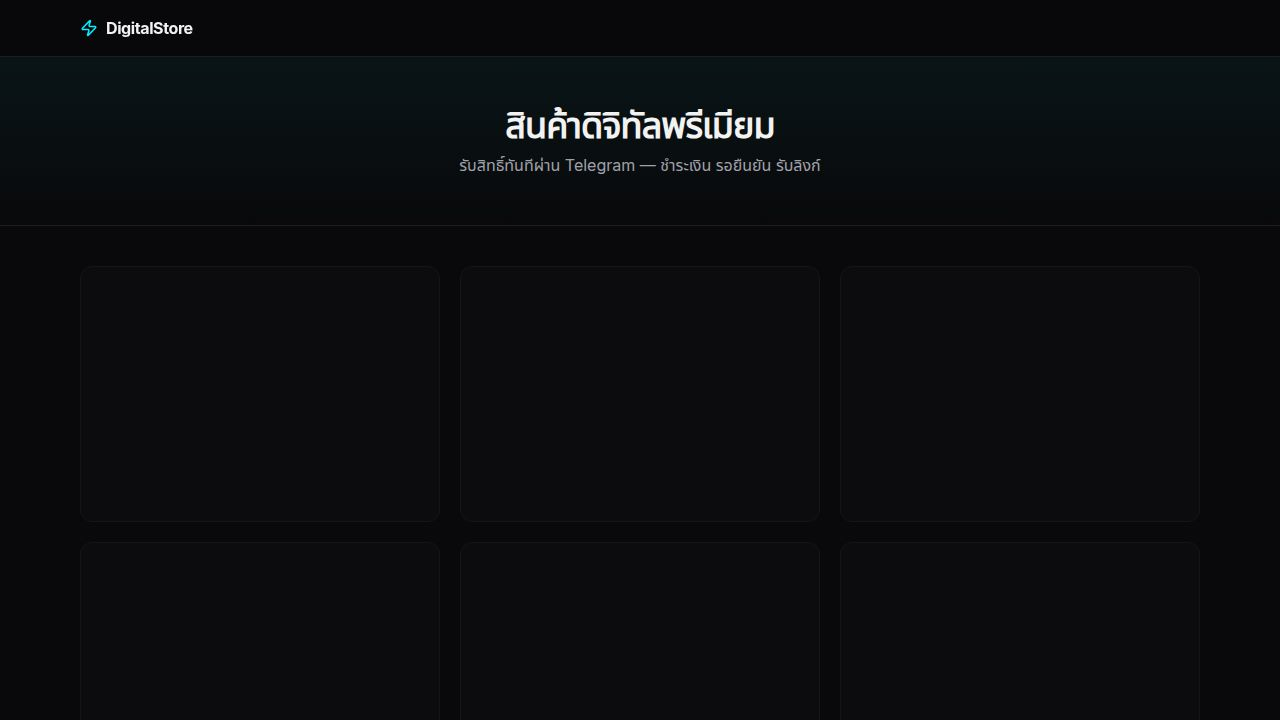
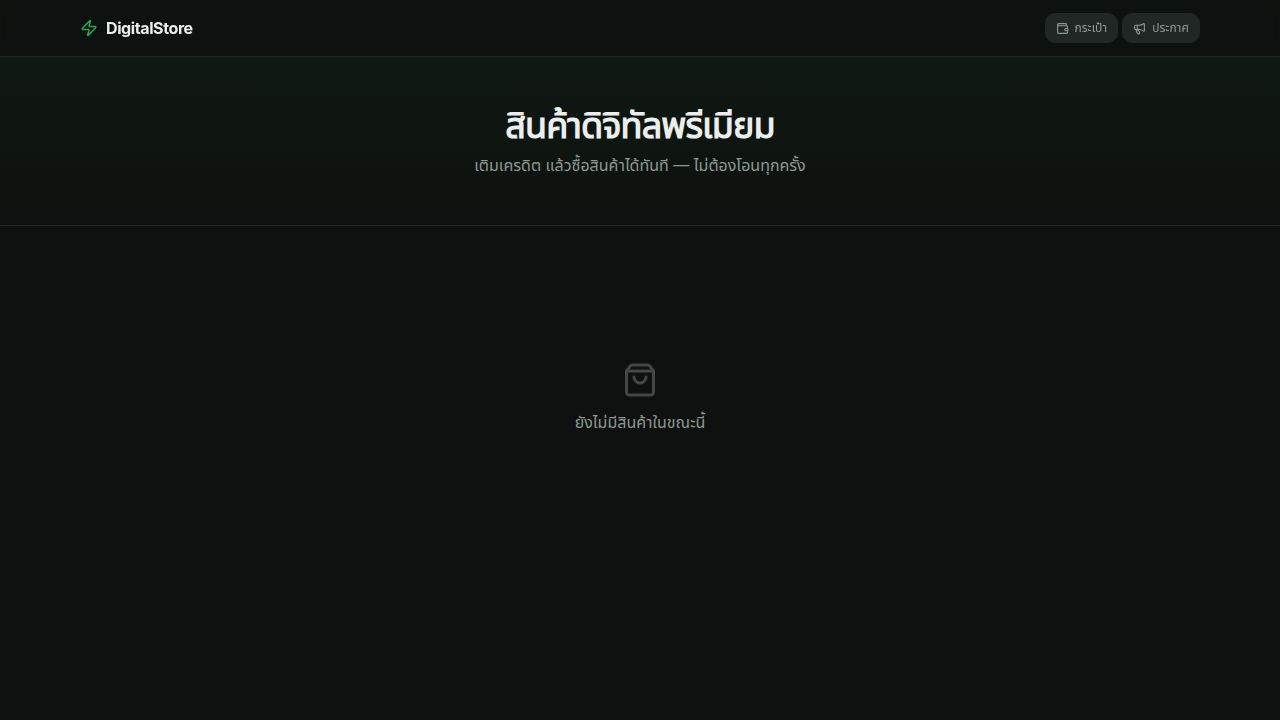
Update website to show purchased items immediately
Fix cache invalidation and proxy configuration issues in the store application.

Replit-Commit-Author: Agent
Replit-Commit-Session-Id: 8c5196ee-96c6-490d-97a3-de2179f8781b
Replit-Commit-Checkpoint-Type: full_checkpoint
Replit-Commit-Event-Id: 2ac96a9a-8911-4f54-a1bf-1070b97376ca
Replit-Commit-Screenshot-Url: https://storage.googleapis.com/screenshot-production-us-central1/b21781ef-a21f-4cb3-89ae-95475a2aff02/8c5196ee-96c6-490d-97a3-de2179f8781b/o4ns5v7
Replit-Helium-Checkpoint-Created: true

diff --git a/artifacts/store/src/pages/StoreFront.tsx b/artifacts/store/src/pages/StoreFront.tsx
@@ -1,5 +1,5 @@
 import { useState, useEffect, useRef } from "react";
-import { useQuery, useMutation } from "@tanstack/react-query";
+import { useQuery, useMutation, useQueryClient } from "@tanstack/react-query";
 import { motion } from "framer-motion";
 import { ShoppingBag, Upload, Link, Clock, ChevronRight, ChevronLeft, Zap, Megaphone, Search, CheckCircle, XCircle, Loader, Building2, CreditCard, Wallet, HelpCircle, X, Lock, Eye, EyeOff } from "lucide-react";
 import { Button } from "@/components/ui/button";
@@ -264,6 +264,7 @@ function BuyModal({
   onClose: () => void;
 }) {
   const [, setLocation] = useLocation();
+  const qc = useQueryClient();
 
   // Read token from sessionStorage (set by WalletPage after PIN login)
   const [token, setToken] = useState(() => sessionStorage.getItem("wallet_token") || "");
@@ -304,7 +305,11 @@ function BuyModal({
       if (!res.ok) throw new Error(data.detail || "เกิดข้อผิดพลาด");
       return data;
     },
-    onSuccess: (data) => setResult(data),
+    onSuccess: (data) => {
+      setResult(data);
+      qc.invalidateQueries({ queryKey: ["wallet-my-orders"] });
+      qc.invalidateQueries({ queryKey: ["wallet-me"] });
+    },
     onError: (e: Error) => setError(e.message),
   });
 

diff --git a/artifacts/store/src/pages/WalletPage.tsx b/artifacts/store/src/pages/WalletPage.tsx
@@ -320,8 +320,10 @@ function MyOrdersTab({ token }: { token: string }) {
       if (!res.ok) throw new Error("โหลดไม่ได้");
       return res.json();
     },
-    staleTime: 30_000,
+    staleTime: 0,
     gcTime: 5 * 60_000,
+    refetchOnMount: "always",
+    refetchOnWindowFocus: true,
   });
 
   if (isLoading) {

diff --git a/artifacts/store/vite.config.ts b/artifacts/store/vite.config.ts
@@ -50,11 +50,11 @@ export default defineConfig({
     fs: { strict: true },
     proxy: {
       "/api": {
-        target: process.env.BACKEND_URL || "http://localhost:8000",
+        target: process.env.BACKEND_URL || "http://localhost:8080",
         changeOrigin: true,
       },
       "/webhook": {
-        target: process.env.BACKEND_URL || "http://localhost:8000",
+        target: process.env.BACKEND_URL || "http://localhost:8080",
         changeOrigin: true,
       },
     },